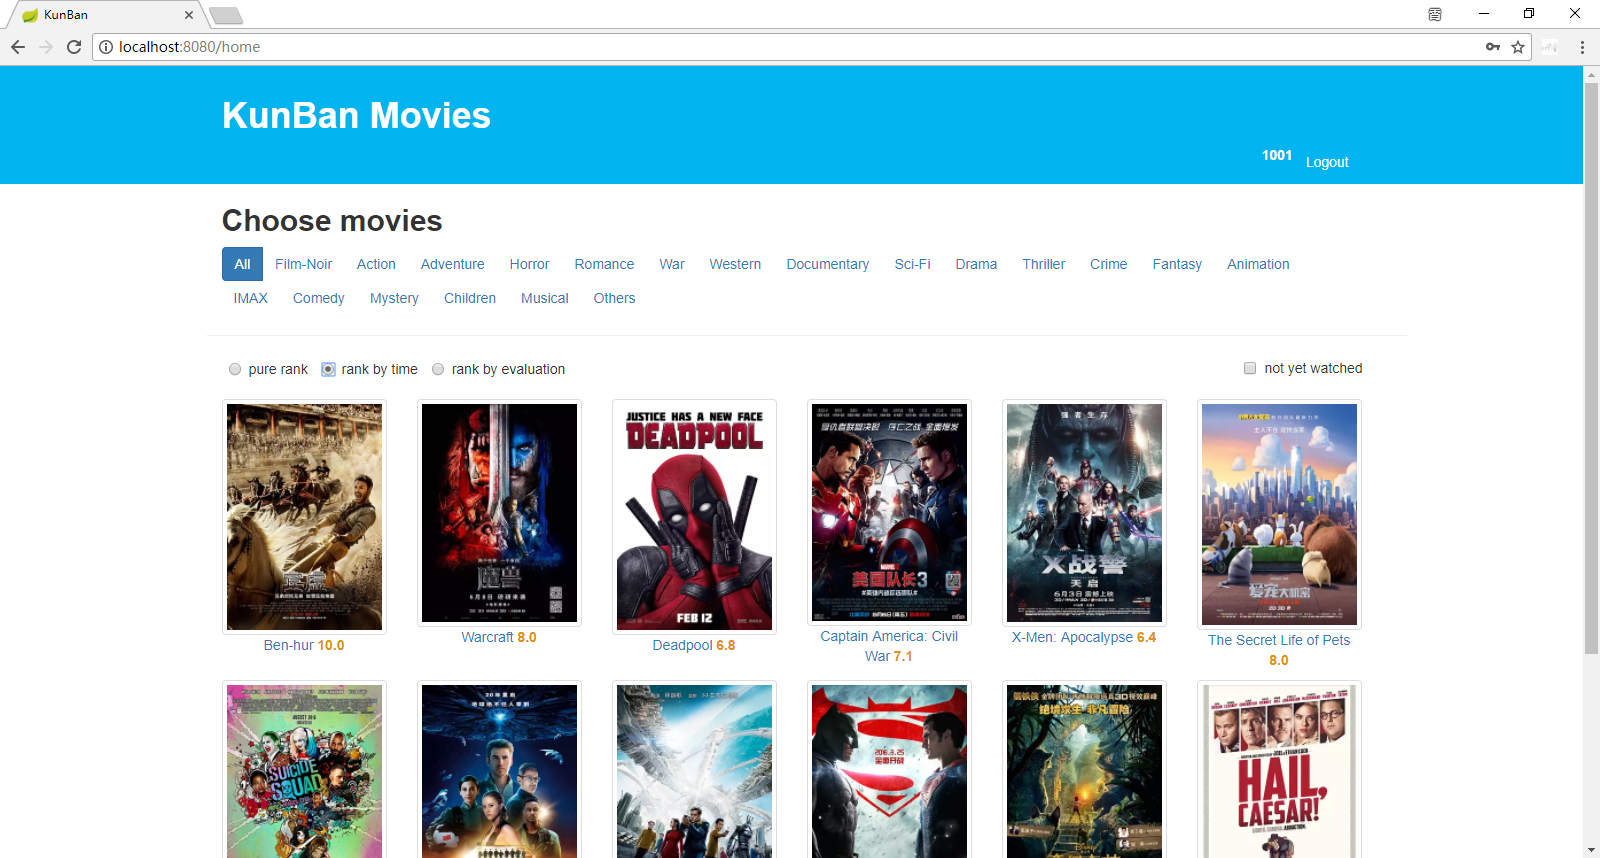
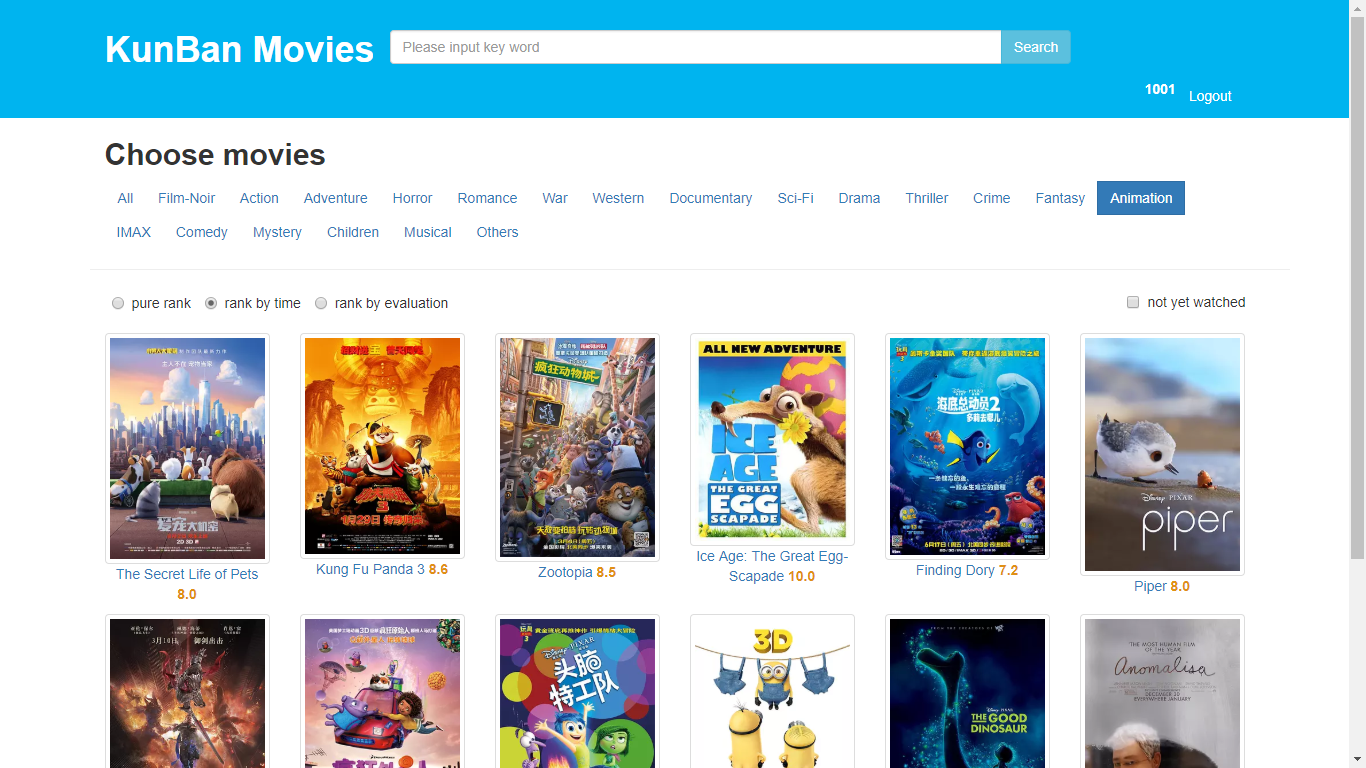
update screen shots

diff --git a/README.md b/README.md
@@ -25,3 +25,7 @@ Page path:
 ![Alt text](https://github.com/Daemoonn/RS/raw/master/screen_shots/detail_page1.png)
 
 ![Alt text](https://github.com/Daemoonn/RS/raw/master/screen_shots/detail_page2.png)
+
+![Alt text](https://github.com/Daemoonn/RS/raw/master/screen_shots/search_page1.png)
+
+![Alt text](https://github.com/Daemoonn/RS/raw/master/screen_shots/search_page2.png)
